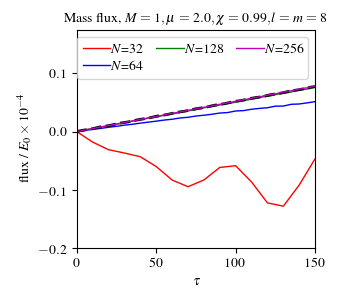
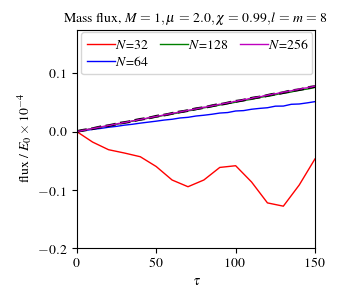
edited plots

Changed region(s): [[0.2077, 0.09, 0.9199, 0.27]]

diff --git a/Analysis/scripts/scripts_for_first_paper/Fig_24_plot_mass_flux_compare_N.py b/Analysis/scripts/scripts_for_first_paper/Fig_24_plot_mass_flux_compare_N.py
@@ -264,7 +264,7 @@ def plot_graph():
 			save_path = home_path + "plots/mass_flux_in_R{:.0f}_IsoKerr_compare_N_differential.png".format(R_max)
 		elif not differential:
 			save_path = home_path + "plots/plots_for_first_paper/Fig_24_mass_flux_in_R{:.0f}_IsoKerr_compare_N.png".format(R_max)
-	ax1.legend(loc='best', fontsize=legend_font_size, ncol=3, labelspacing=0.2, handletextpad=0, columnspacing=1)
+	ax1.legend(loc='best', fontsize=legend_font_size, ncol=3, labelspacing=0.2, handletextpad=0, borderaxespad=0.2, columnspacing=1)
 	plt.xticks(fontsize=font_size)
 	plt.yticks(fontsize=font_size)
 	plt.tight_layout()
